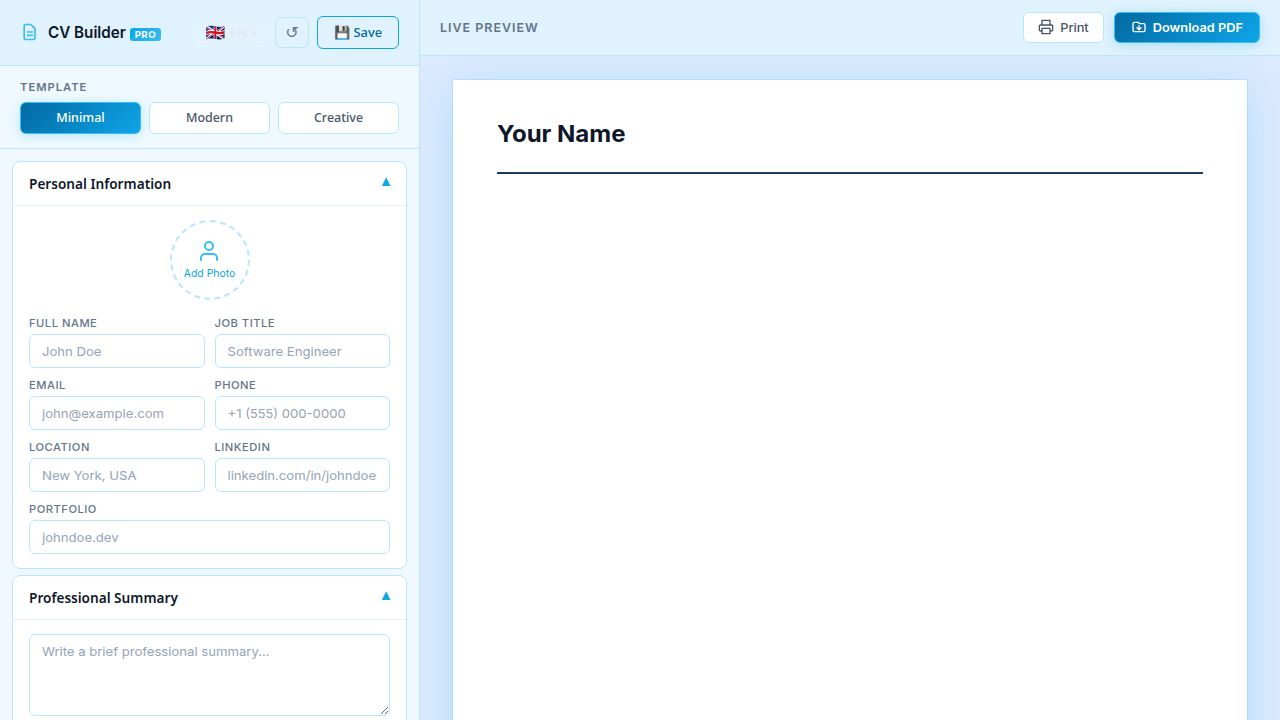
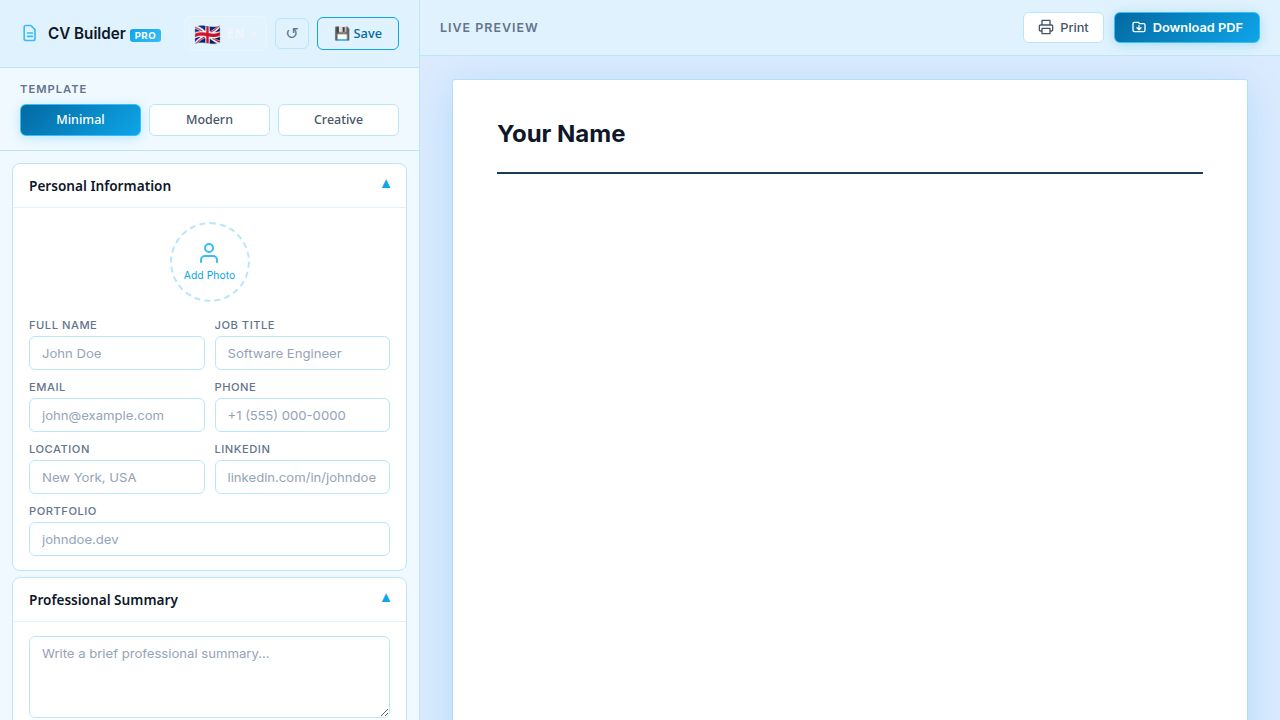
Improve language switcher display and functionality for better usability
Update `LanguageSwitcher.tsx` to display language codes in the button and full native names in the dropdown. Modify `i18n.ts` to include `nativeName` for each supported language. Adjust CSS in `index.css` for improved styling and layout of the language switcher.

Replit-Commit-Author: Agent
Replit-Commit-Session-Id: a2ca705c-1265-4780-8c4e-263c40de6cc9
Replit-Commit-Checkpoint-Type: full_checkpoint
Replit-Commit-Event-Id: 4377c363-daa5-4144-9136-42c6c1e41f0a
Replit-Commit-Screenshot-Url: https://storage.googleapis.com/screenshot-production-us-central1/097fa47f-6e7e-48a7-95df-536f37d539eb/a2ca705c-1265-4780-8c4e-263c40de6cc9/H4jFCmS
Replit-Helium-Checkpoint-Created: true

diff --git a/artifacts/cv-builder/src/index.css b/artifacts/cv-builder/src/index.css
@@ -1739,76 +1739,99 @@ body {
 .lang-switcher-btn {
   display: flex;
   align-items: center;
-  gap: 0.3rem;
-  padding: 0.3rem 0.5rem;
-  background: rgba(255,255,255,0.08);
-  border: 1px solid rgba(255,255,255,0.15);
-  border-radius: 6px;
-  color: #e2e8f0;
-  font-size: 0.78rem;
-  font-weight: 500;
+  gap: 0.35rem;
+  padding: 0.35rem 0.6rem;
+  background: rgba(255,255,255,0.1);
+  border: 1px solid rgba(255,255,255,0.22);
+  border-radius: 8px;
+  color: #f1f5f9;
+  font-size: 0.8rem;
+  font-weight: 700;
   cursor: pointer;
   transition: all 0.2s;
   white-space: nowrap;
 }
 
 .lang-switcher-btn:hover {
-  background: rgba(255,255,255,0.15);
-  border-color: rgba(255,255,255,0.3);
+  background: rgba(255,255,255,0.18);
+  border-color: rgba(56,189,248,0.6);
 }
 
-.lang-flag { font-size: 1rem; line-height: 1; }
-.lang-code { letter-spacing: 0.04em; }
-.lang-chevron { font-size: 0.65rem; transition: transform 0.2s; }
+.lang-flag { font-size: 1.35rem; line-height: 1; }
+.lang-name-short { font-size: 0.78rem; font-weight: 700; letter-spacing: 0.06em; text-transform: uppercase; }
+.lang-chevron { font-size: 0.65rem; transition: transform 0.2s; opacity: 0.65; }
 .lang-chevron.open { transform: rotate(180deg); }
 
 .lang-dropdown {
   position: absolute;
-  top: calc(100% + 6px);
-  right: 0;
-  background: #1e293b;
-  border: 1px solid rgba(255,255,255,0.12);
-  border-radius: 8px;
-  box-shadow: 0 8px 24px rgba(0,0,0,0.4);
+  top: calc(100% + 8px);
+  left: 0;
+  background: #0f2540;
+  border: 1px solid rgba(255,255,255,0.16);
+  border-radius: 10px;
+  box-shadow: 0 12px 32px rgba(0,0,0,0.5);
   list-style: none;
   margin: 0;
-  padding: 0.3rem;
-  min-width: 160px;
+  padding: 0.4rem;
+  min-width: 190px;
   z-index: 9999;
 }
 
 [dir="rtl"] .lang-dropdown {
-  right: auto;
-  left: 0;
+  left: auto;
+  right: 0;
 }
 
 .lang-option {
   display: flex;
   align-items: center;
-  gap: 0.5rem;
-  padding: 0.45rem 0.6rem;
-  border-radius: 6px;
+  gap: 0.65rem;
+  padding: 0.55rem 0.75rem;
+  border-radius: 7px;
   cursor: pointer;
-  font-size: 0.82rem;
   color: #cbd5e1;
   transition: background 0.15s;
 }
 
 .lang-option:hover {
-  background: rgba(255,255,255,0.08);
+  background: rgba(255,255,255,0.1);
   color: #f1f5f9;
 }
 
 .lang-option.active {
-  background: rgba(56,189,248,0.15);
+  background: rgba(56,189,248,0.18);
   color: #38bdf8;
 }
 
-.lang-name { flex: 1; }
+.lang-option-flag {
+  font-size: 1.5rem;
+  line-height: 1;
+  flex-shrink: 0;
+}
+
+.lang-option-info {
+  display: flex;
+  flex-direction: column;
+  gap: 0.05rem;
+  flex: 1;
+}
+
+.lang-option-name {
+  font-size: 0.88rem;
+  font-weight: 600;
+  line-height: 1.2;
+}
+
+.lang-option-native {
+  font-size: 0.72rem;
+  opacity: 0.6;
+  line-height: 1.2;
+}
 
 .lang-check {
-  font-size: 0.7rem;
+  font-size: 0.8rem;
   color: #38bdf8;
+  font-weight: 700;
 }
 
 /* ─── RTL Support ───────────────────────────────────────── */

diff --git a/artifacts/cv-builder/src/components/LanguageSwitcher.tsx b/artifacts/cv-builder/src/components/LanguageSwitcher.tsx
@@ -29,9 +29,10 @@ export default function LanguageSwitcher() {
         aria-expanded={open}
       >
         <span className="lang-flag">{current.flag}</span>
-        <span className="lang-code">{current.code.toUpperCase()}</span>
+        <span className="lang-name-short">{current.code.toUpperCase()}</span>
         <span className={`lang-chevron ${open ? 'open' : ''}`}>▾</span>
       </button>
+
       {open && (
         <ul className="lang-dropdown" role="listbox" aria-label={t('languageSwitcher.label')}>
           {languages.map(lang => (
@@ -45,8 +46,13 @@ export default function LanguageSwitcher() {
                 setOpen(false);
               }}
             >
-              <span className="lang-flag">{lang.flag}</span>
-              <span className="lang-name">{lang.name}</span>
+              <span className="lang-option-flag">{lang.flag}</span>
+              <span className="lang-option-info">
+                <span className="lang-option-name">{lang.nativeName}</span>
+                {lang.nativeName !== lang.name && (
+                  <span className="lang-option-native">{lang.name}</span>
+                )}
+              </span>
               {lang.code === currentLang && <span className="lang-check">✓</span>}
             </li>
           ))}

diff --git a/artifacts/cv-builder/src/i18n.ts b/artifacts/cv-builder/src/i18n.ts
@@ -10,12 +10,12 @@ import tr from './locales/tr/translation.json';
 import pt from './locales/pt/translation.json';
 
 export const SUPPORTED_LANGUAGES = [
-  { code: 'en', name: 'English', flag: '🇬🇧', dir: 'ltr' },
-  { code: 'fr', name: 'Français', flag: '🇫🇷', dir: 'ltr' },
-  { code: 'es', name: 'Español', flag: '🇪🇸', dir: 'ltr' },
-  { code: 'ar', name: 'العربية', flag: '🇸🇦', dir: 'rtl' },
-  { code: 'tr', name: 'Türkçe', flag: '🇹🇷', dir: 'ltr' },
-  { code: 'pt', name: 'Português', flag: '🇵🇹', dir: 'ltr' },
+  { code: 'en', name: 'English',    nativeName: 'English',    flag: '🇬🇧', dir: 'ltr' },
+  { code: 'fr', name: 'French',     nativeName: 'Français',   flag: '🇫🇷', dir: 'ltr' },
+  { code: 'es', name: 'Spanish',    nativeName: 'Español',    flag: '🇪🇸', dir: 'ltr' },
+  { code: 'ar', name: 'Arabic',     nativeName: 'العربية',    flag: '🇸🇦', dir: 'rtl' },
+  { code: 'tr', name: 'Turkish',    nativeName: 'Türkçe',     flag: '🇹🇷', dir: 'ltr' },
+  { code: 'pt', name: 'Portuguese', nativeName: 'Português',  flag: '🇵🇹', dir: 'ltr' },
 ] as const;
 
 export type SupportedLang = typeof SUPPORTED_LANGUAGES[number]['code'];
